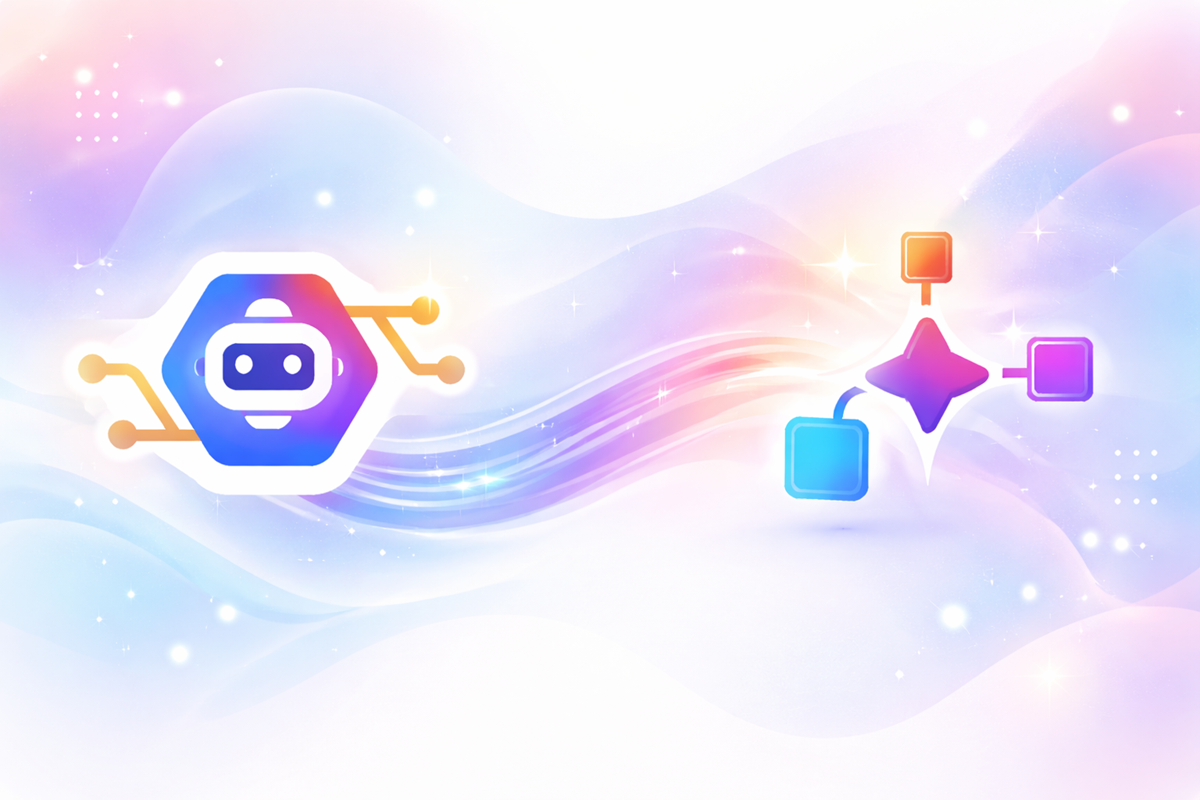
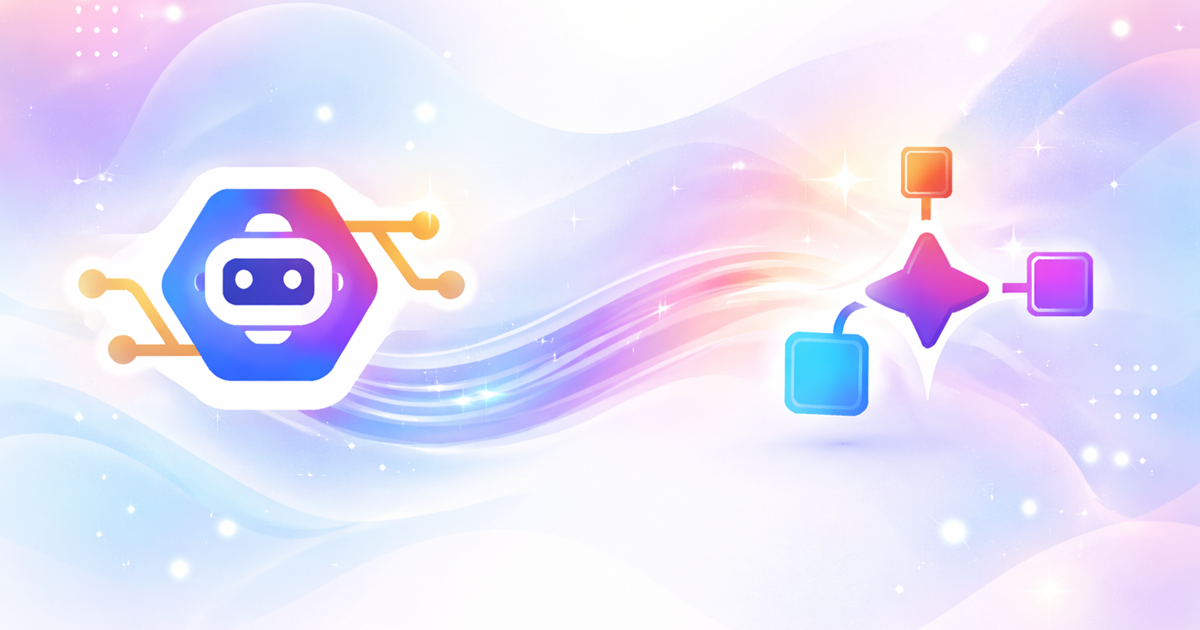
Fix images: crop header to 1200x630, convert last screenshot to PNG
- Crop header.png from 1200x800 to 1200x630 (center crop) to match
  Chirpy's expected banner aspect ratio and prevent stretching
- Convert invoke-agent-from-workflow from JPEG to PNG for consistent
  lossless quality with the rest of the post's screenshots

diff --git a/_posts/2026-04-17-combining-workflows-and-agents-gotchas-errors-and-patterns.md b/_posts/2026-04-17-combining-workflows-and-agents-gotchas-errors-and-patterns.md
@@ -247,7 +247,7 @@ If you've explored triggering agents from *outside* a workflow — say, from an 
 
 When the workflow runs, execution reaches the agent node, hands off to the agent, waits for the result, and then continues with the next workflow step automatically. The agent does its reasoning, returns a structured output, and the workflow continues as if nothing unusual happened.
 
-![A workflow with an agent node mid-sequence, showing the agent being invoked and its output used in subsequent workflow steps](/assets/posts/combining-workflows-and-agents-gotchas-errors-and-patterns/invoke-agent-from-workflow.jpg){: .shadow w="700" }
+![A workflow with an agent node mid-sequence, showing the agent being invoked and its output used in subsequent workflow steps](/assets/posts/combining-workflows-and-agents-gotchas-errors-and-patterns/invoke-agent-from-workflow.png){: .shadow w="700" }
 _An agent node inside a workflow — the workflow pauses, the agent reasons, the workflow continues with the result_
 
 > This is different from the async continuation pattern in #2. Here, the *workflow* is calling the *agent* — the flow of control is inverted. The workflow waits for the agent response before continuing.
